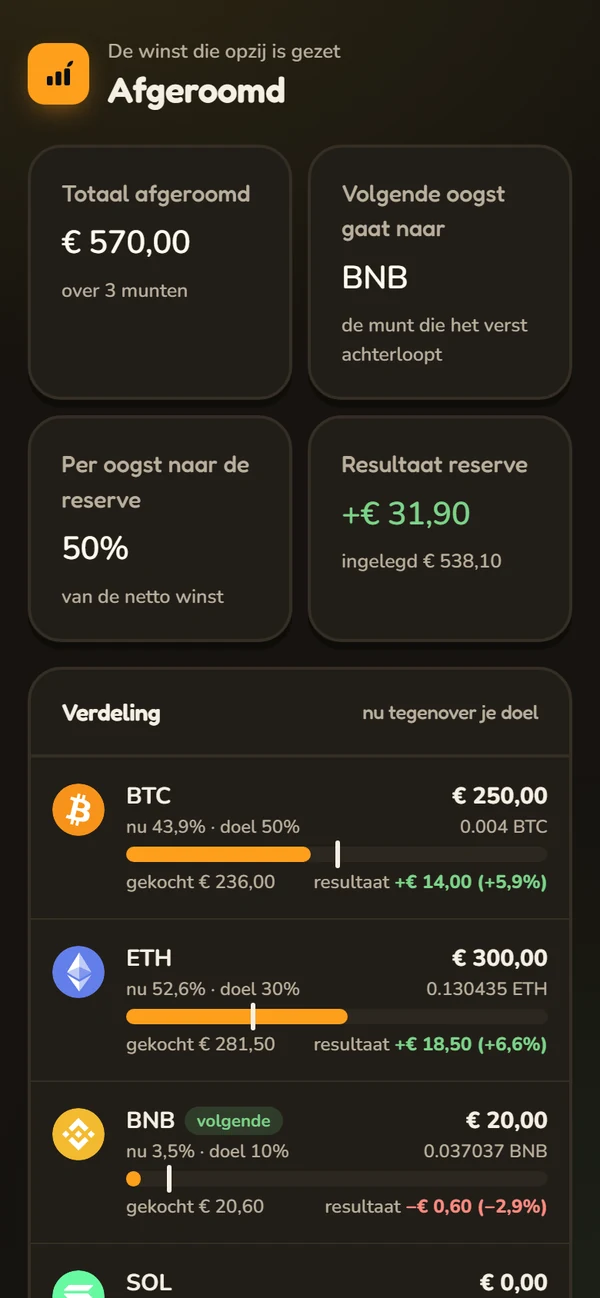
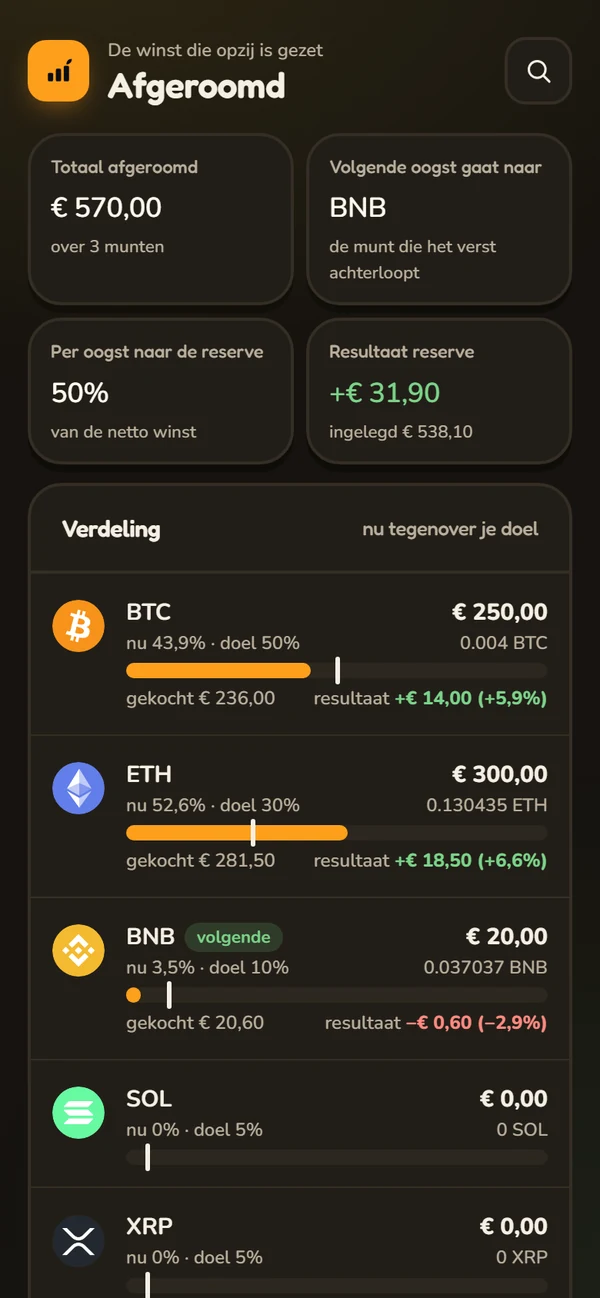
README en projectsite: Munt opzoeken, bijkopen aan/uit, Beheren-tabs, compacte telefoonweergave; nieuwe screenshots

diff --git a/docs/index.html b/docs/index.html
@@ -360,7 +360,7 @@ footer a { color: var(--dim); }
         <p>Een apart potje waarin de bot <b>zelf</b> beweeglijke, goed verhandelde munten kiest, koopt en verkoopt.</p>
         <ul>
           <li>Kiest op volume en dagbeweging</li>
-          <li>Bijkopen met afkoeltijd en dagbudget</li>
+          <li>Bijkopen bij een dip: aan of uit</li>
           <li>Noodstop als de pot te ver zakt</li>
         </ul>
       </div>
@@ -432,9 +432,9 @@ footer a { color: var(--dim); }
         <p>Download al je orders, met je filters, als bestand voor Excel of je boekhouding.</p>
       </div>
       <div class="kaart">
-        <div class="icoon blauw"><svg viewBox="0 0 24 24" fill="none" stroke="currentColor" stroke-width="1.8" stroke-linecap="round" stroke-linejoin="round"><path d="M21 12.8A9 9 0 1 1 11.2 3a7 7 0 0 0 9.8 9.8z"/></svg></div>
-        <h3>Licht of donker</h3>
-        <p>Kies zelf het thema met één knop. Je keuze wordt per apparaat onthouden.</p>
+        <div class="icoon blauw"><svg viewBox="0 0 24 24" fill="none" stroke="currentColor" stroke-width="1.8" stroke-linecap="round" stroke-linejoin="round"><circle cx="11" cy="11" r="6.5"/><line x1="16" y1="16" x2="20.5" y2="20.5"/></svg></div>
+        <h3>Munt opzoeken</h3>
+        <p>Typ <b>BTC</b> of <b>Bitcoin</b> en zie meteen of een munt op Bitvavo te verhandelen is, met koers en volume. Met één klik voeg je hem toe aan je hoofdlijst.</p>
       </div>
     </div>
 
@@ -443,7 +443,7 @@ footer a { color: var(--dim); }
       <figure><img src="img/potten-mobiel.webp" width="600" height="1298" loading="lazy" alt="Potten-pagina met het totaal van de potten, de pot en de dalpot"><figcaption>Potten</figcaption></figure>
       <figure><img src="img/rendement-mobiel.webp" width="600" height="1298" loading="lazy" alt="Rendement per week met oogsten per dag"><figcaption>Rendement</figcaption></figure>
       <figure><img src="img/afgeroomd-mobiel.webp" width="600" height="1298" loading="lazy" alt="Afgeroomd-pagina met de verdeling van de reserve, doelen en resultaat per munt"><figcaption>Afgeroomd</figcaption></figure>
-      <figure><img src="img/beheren-mobiel.webp" width="600" height="1298" loading="lazy" alt="Beheren-pagina met knoppen voor de hoofdlijst, pot en dalpot"><figcaption>Beheren</figcaption></figure>
+      <figure><img src="img/beheren-mobiel.webp" width="600" height="1298" loading="lazy" alt="Beheren-pagina met tabbladen voor hoofdlijst, pot, dalpot en instellingen"><figcaption>Beheren</figcaption></figure>
     </div>
     <div class="desktopshot">
       <img src="img/dashboard-desktop.webp" width="1280" height="830" loading="lazy" alt="Het dashboard op een laptop: zijbalk met menu en status links, kaarten met totale waarde, vrije cash, potten en afgeroomd, en een grafiek met stippen voor kopen en verkopen">

diff --git a/README.md b/README.md
@@ -20,7 +20,8 @@ Draait 24/7 op een Raspberry Pi of een gewone pc, met een eigen webdashboard (oo
 - Zakt de koers **1%** vanaf de top, dan verkoopt hij **alleen de winst**. Je budget blijft belegd.
 - **Vangnet:** zakt de winst tijdens het volgen van de top terug tot €10,50, dan verkoopt hij meteen. Zo is de helft altijd groot genoeg voor je reserve.
 - **Kopen gebeurt nooit vanzelf.** Bij "Munt toevoegen" koopt de bot meteen voor het budget dat jij invult. Met "Alles Aanvullen" koopt hij in lagen bij munten die onder hun budget staan. Hij wacht op een bodem als de koers nog daalt, en legt per munt nooit meer in dan 1,5× het budget.
-- **Munt verwijderen** verkoopt je hele saldo van die munt; de opbrengst wordt vrije cash.
+- **Munt verwijderen** verkoopt je hele saldo van die munt; de opbrengst wordt vrije cash. In het rendement telt dat apart, niet als oogst.
+- **Munt opzoeken:** typ een afkorting of naam (bijvoorbeeld *BTC* of *Bitcoin*) en zie meteen of de munt op Bitvavo te verhandelen is, met koers, 24-uursverandering en volume. Staat hij nog nergens in je bot, dan kun je hem daar direct **toevoegen en kopen**, met een bevestiging vooraf.
 
 ### 💎 Afgeroomd: je reserve, verdeeld over grote munten
 - **50%** van elke oogst gaat direct naar je reserve. Standaard kun je kiezen uit **BTC, ETH, BNB, SOL en XRP**, en je kunt zelf munten toevoegen of weghalen (maximaal 10).
@@ -30,23 +31,24 @@ Draait 24/7 op een Raspberry Pi of een gewone pc, met een eigen webdashboard (oo
 - Loopt de verdeling scheef (standaard meer dan 10 procentpunt), dan krijg je een **seintje via Telegram**. De bot herbalanceert nooit vanzelf.
 
 ### 🧪 Pot: de bot handelt zelf
-- Een apart potje waarin de bot zelf beweeglijke, goed verhandelde munten kiest, koopt, bijkoopt bij een dip en verkoopt.
-- Met remmen: een maximum per dag, een afkoeltijd per munt, een inlegplafond en een noodstop.
+- Een apart potje waarin de bot zelf beweeglijke, goed verhandelde munten kiest, koopt en met winst weer verkoopt.
+- **Bijkopen bij een dip** kun je aan- of uitzetten. Staat het uit, dan koopt de pot een munt één keer en houdt hij hem vast tot hij met winst verkocht wordt; daarna kiest hij een nieuwe.
+- Met remmen: een maximum per dag, een afkoeltijd per munt, een inlegplafond en een noodstop. Munten die de pot nooit mag kiezen, sluit je uit; de lijst zie je in één oogopslag.
 
 ### 📉 Dalpot: de grootste daler van de dag
 - Nog een apart potje: de bot koopt de munt die de laatste 24 uur het hardst gedaald is, en verkoopt zodra die herstelt.
 - Het risicovolste onderdeel, met een eigen noodstop.
 
 ### 📊 Dashboard en meldingen
-- Webdashboard in een vrolijke **moestuin-stijl**: kaarten voor totale waarde, vrije cash, potten en je afgeroomde winst (met de munt waar de volgende oogst heen gaat), een grafiek met stippen voor elke aankoop en verkoop, posities met een plantje dat meegroeit naar het doel, en rendement per periode. Op een laptop met een zijbalk, op je telefoon als app.
+- Webdashboard in een vrolijke **moestuin-stijl**: kaarten voor totale waarde, vrije cash, potten en je afgeroomde winst (met de munt waar de volgende oogst heen gaat), een grafiek met stippen voor elke aankoop en verkoop, posities met een plantje dat meegroeit naar het doel, en rendement per periode. Op een laptop met een zijbalk, op je telefoon als app met een **compacte indeling**: alles belangrijks in het eerste scherm.
 - **Status en pauzeknop**: zie of de bot draait, wanneer hij voor het laatst keek en hoe warm je Pi is. Met één knop zet je hem op pauze.
 - **Activiteit** als sorteerbare tabel met filters op koop/verkoop, bron en munt, en export naar CSV.
-- Alles te bedienen vanaf de **Beheren**-pagina, met een sprongbalk, inklapbare blokken en een bevestiging met de bedragen erbij bij elke actie.
+- Alles te bedienen vanaf de **Beheren**-pagina, met **tabbladen** (Hoofdlijst, Pot, Dalpot, Instellingen) en een bevestiging met de bedragen erbij bij elke actie.
 - **Meldingen op de site**: een belletje in het menu met alle berichten van de bot, en een rode stip bij belangrijke.
 - **Licht of donker** thema, per apparaat onthouden.
 - **Telegram**: meldingen bij elke oogst en aankoop, en bediening met knoppen en commando's.
 - **Dagelijks e-mailrapport** met je hele portefeuille.
-- Een uitgebreide **uitlegpagina** in het dashboard, die de instellingen toont zoals ze bij jou staan.
+- Een uitgebreide **uitlegpagina** in het dashboard, met inklapbare onderdelen, die de instellingen toont zoals ze bij jou staan.
 
 ---
 
